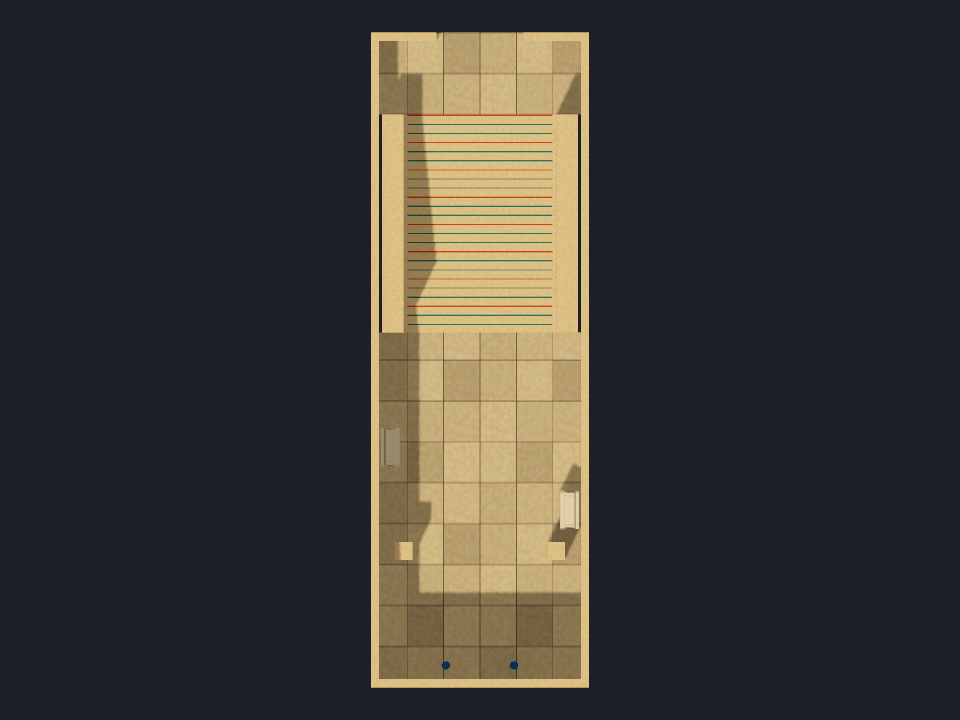
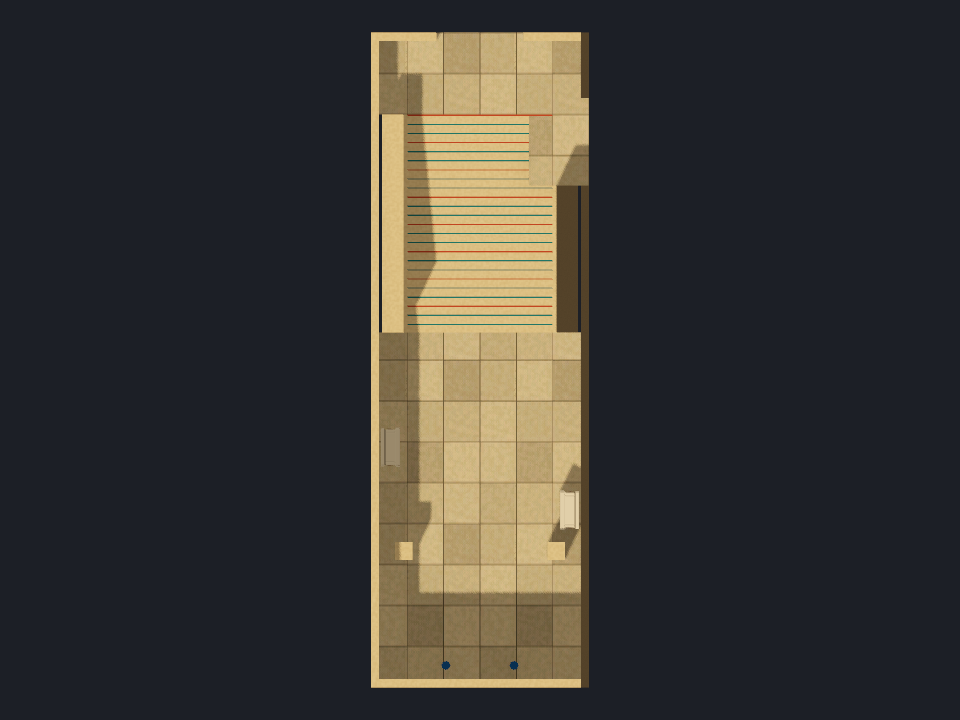
Show additional relic chamber entrances

Changed region(s): [[0.5312, 0.0306, 0.625, 0.9472]]

diff --git a/site/index.html b/site/index.html
@@ -34,7 +34,7 @@
     <tbody><tr id="BlackPitCausewayChamber" data-search="black pit causeway chamber blackpitcausewaychamber room standard" data-kind="Room" data-category="standard" data-name="Black Pit Causeway Chamber" data-area="768.0"><th scope="row"><a class="permalink" href="#BlackPitCausewayChamber">Black Pit Causeway Chamber</a><span class="tag">Room</span><span class="dimensions">24 × 32 m · 2 doorways</span><details><summary>Source</summary><code>levels/trenchbroom/maps/black_pit_causeway_chamber.map</code></details></th><td data-label="Top down"><a class="shot" href="images/BlackPitCausewayChamber/top.webp" data-title="Black Pit Causeway Chamber · Top down"><img src="images/BlackPitCausewayChamber/top.webp" width="960" height="720" loading="lazy" alt="Black Pit Causeway Chamber — Top down"></a></td><td data-label="Interior 1"><a class="shot" href="images/BlackPitCausewayChamber/interior-1.webp" data-title="Black Pit Causeway Chamber · Interior 1"><img src="images/BlackPitCausewayChamber/interior-1.webp" width="960" height="720" loading="lazy" alt="Black Pit Causeway Chamber — Interior 1"></a></td><td data-label="Interior 2"><a class="shot" href="images/BlackPitCausewayChamber/interior-2.webp" data-title="Black Pit Causeway Chamber · Interior 2"><img src="images/BlackPitCausewayChamber/interior-2.webp" width="960" height="720" loading="lazy" alt="Black Pit Causeway Chamber — Interior 2"></a></td></tr>
 <tr id="boulder_descent" data-search="boulder descent boulder_descent room standard" data-kind="Room" data-category="standard" data-name="Boulder Descent" data-area="384.0"><th scope="row"><a class="permalink" href="#boulder_descent">Boulder Descent</a><span class="tag">Room</span><span class="dimensions">16 × 24 m · 3 doorways</span><details><summary>Source</summary><code>levels/trenchbroom/maps/migrated/boulder_descent.map</code></details></th><td data-label="Top down"><a class="shot" href="images/boulder_descent/top.webp" data-title="Boulder Descent · Top down"><img src="images/boulder_descent/top.webp" width="960" height="720" loading="lazy" alt="Boulder Descent — Top down"></a></td><td data-label="Interior 1"><a class="shot" href="images/boulder_descent/interior-1.webp" data-title="Boulder Descent · Interior 1"><img src="images/boulder_descent/interior-1.webp" width="960" height="720" loading="lazy" alt="Boulder Descent — Interior 1"></a></td><td data-label="Interior 2"><a class="shot" href="images/boulder_descent/interior-2.webp" data-title="Boulder Descent · Interior 2"><img src="images/boulder_descent/interior-2.webp" width="960" height="720" loading="lazy" alt="Boulder Descent — Interior 2"></a></td></tr>
 <tr id="broken_bridge_chamber" data-search="broken bridge chamber broken_bridge_chamber room standard" data-kind="Room" data-category="standard" data-name="Broken Bridge Chamber" data-area="384.0"><th scope="row"><a class="permalink" href="#broken_bridge_chamber">Broken Bridge Chamber</a><span class="tag">Room</span><span class="dimensions">16 × 24 m · 2 doorways</span><details><summary>Source</summary><code>levels/trenchbroom/maps/migrated/broken_bridge_chamber.map</code></details></th><td data-label="Top down"><a class="shot" href="images/broken_bridge_chamber/top.webp" data-title="Broken Bridge Chamber · Top down"><img src="images/broken_bridge_chamber/top.webp" width="960" height="720" loading="lazy" alt="Broken Bridge Chamber — Top down"></a></td><td data-label="Interior 1"><a class="shot" href="images/broken_bridge_chamber/interior-1.webp" data-title="Broken Bridge Chamber · Interior 1"><img src="images/broken_bridge_chamber/interior-1.webp" width="960" height="720" loading="lazy" alt="Broken Bridge Chamber — Interior 1"></a></td><td data-label="Interior 2"><a class="shot" href="images/broken_bridge_chamber/interior-2.webp" data-title="Broken Bridge Chamber · Interior 2"><img src="images/broken_bridge_chamber/interior-2.webp" width="960" height="720" loading="lazy" alt="Broken Bridge Chamber — Interior 2"></a></td></tr>
-<tr id="burial_descent" data-search="burial descent burial_descent room relic chamber" data-kind="Room" data-category="relic" data-name="Burial Descent" data-area="192.0"><th scope="row"><a class="permalink" href="#burial_descent">Burial Descent</a><span class="tag">Room</span><span class="tag reward">Relic chamber</span><span class="dimensions">8 × 24 m · 1 doorways</span><details><summary>Source</summary><code>levels/trenchbroom/maps/migrated/burial_descent.map</code></details></th><td data-label="Top down"><a class="shot" href="images/burial_descent/top.webp" data-title="Burial Descent · Top down"><img src="images/burial_descent/top.webp" width="960" height="720" loading="lazy" alt="Burial Descent — Top down"></a></td><td data-label="Interior 1"><a class="shot" href="images/burial_descent/interior-1.webp" data-title="Burial Descent · Interior 1"><img src="images/burial_descent/interior-1.webp" width="960" height="720" loading="lazy" alt="Burial Descent — Interior 1"></a></td><td data-label="Interior 2"><a class="shot" href="images/burial_descent/interior-2.webp" data-title="Burial Descent · Interior 2"><img src="images/burial_descent/interior-2.webp" width="960" height="720" loading="lazy" alt="Burial Descent — Interior 2"></a></td></tr>
+<tr id="burial_descent" data-search="burial descent burial_descent room relic chamber" data-kind="Room" data-category="relic" data-name="Burial Descent" data-area="192.0"><th scope="row"><a class="permalink" href="#burial_descent">Burial Descent</a><span class="tag">Room</span><span class="tag reward">Relic chamber</span><span class="dimensions">8 × 24 m · 2 doorways</span><details><summary>Source</summary><code>levels/trenchbroom/maps/migrated/burial_descent.map</code></details></th><td data-label="Top down"><a class="shot" href="images/burial_descent/top.webp" data-title="Burial Descent · Top down"><img src="images/burial_descent/top.webp" width="960" height="720" loading="lazy" alt="Burial Descent — Top down"></a></td><td data-label="Interior 1"><a class="shot" href="images/burial_descent/interior-1.webp" data-title="Burial Descent · Interior 1"><img src="images/burial_descent/interior-1.webp" width="960" height="720" loading="lazy" alt="Burial Descent — Interior 1"></a></td><td data-label="Interior 2"><a class="shot" href="images/burial_descent/interior-2.webp" data-title="Burial Descent · Interior 2"><img src="images/burial_descent/interior-2.webp" width="960" height="720" loading="lazy" alt="Burial Descent — Interior 2"></a></td></tr>
 <tr id="canopic_passage" data-search="canopic passage canopic_passage room standard" data-kind="Room" data-category="standard" data-name="Canopic Passage" data-area="192.0"><th scope="row"><a class="permalink" href="#canopic_passage">Canopic Passage</a><span class="tag">Room</span><span class="dimensions">8 × 24 m · 2 doorways</span><details><summary>Source</summary><code>levels/trenchbroom/maps/migrated/canopic_passage.map</code></details></th><td data-label="Top down"><a class="shot" href="images/canopic_passage/top.webp" data-title="Canopic Passage · Top down"><img src="images/canopic_passage/top.webp" width="960" height="720" loading="lazy" alt="Canopic Passage — Top down"></a></td><td data-label="Interior 1"><a class="shot" href="images/canopic_passage/interior-1.webp" data-title="Canopic Passage · Interior 1"><img src="images/canopic_passage/interior-1.webp" width="960" height="720" loading="lazy" alt="Canopic Passage — Interior 1"></a></td><td data-label="Interior 2"><a class="shot" href="images/canopic_passage/interior-2.webp" data-title="Canopic Passage · Interior 2"><img src="images/canopic_passage/interior-2.webp" width="960" height="720" loading="lazy" alt="Canopic Passage — Interior 2"></a></td></tr>
 <tr id="collapse_passage" data-search="collapse passage collapse_passage room standard" data-kind="Room" data-category="standard" data-name="Collapse Passage" data-area="192.0"><th scope="row"><a class="permalink" href="#collapse_passage">Collapse Passage</a><span class="tag">Room</span><span class="dimensions">8 × 24 m · 2 doorways</span><details><summary>Source</summary><code>levels/trenchbroom/maps/migrated/collapse_passage.map</code></details></th><td data-label="Top down"><a class="shot" href="images/collapse_passage/top.webp" data-title="Collapse Passage · Top down"><img src="images/collapse_passage/top.webp" width="960" height="720" loading="lazy" alt="Collapse Passage — Top down"></a></td><td data-label="Interior 1"><a class="shot" href="images/collapse_passage/interior-1.webp" data-title="Collapse Passage · Interior 1"><img src="images/collapse_passage/interior-1.webp" width="960" height="720" loading="lazy" alt="Collapse Passage — Interior 1"></a></td><td data-label="Interior 2"><a class="shot" href="images/collapse_passage/interior-2.webp" data-title="Collapse Passage · Interior 2"><img src="images/collapse_passage/interior-2.webp" width="960" height="720" loading="lazy" alt="Collapse Passage — Interior 2"></a></td></tr>
 <tr id="collapsed_room" data-search="collapsed room collapsed_room room standard" data-kind="Room" data-category="standard" data-name="Collapsed Room" data-area="64.0"><th scope="row"><a class="permalink" href="#collapsed_room">Collapsed Room</a><span class="tag">Room</span><span class="dimensions">8 × 8 m · 1 doorways</span><details><summary>Source</summary><code>levels/trenchbroom/maps/migrated/collapsed_room.map</code></details></th><td data-label="Top down"><a class="shot" href="images/collapsed_room/top.webp" data-title="Collapsed Room · Top down"><img src="images/collapsed_room/top.webp" width="960" height="720" loading="lazy" alt="Collapsed Room — Top down"></a></td><td data-label="Interior 1"><a class="shot" href="images/collapsed_room/interior-1.webp" data-title="Collapsed Room · Interior 1"><img src="images/collapsed_room/interior-1.webp" width="960" height="720" loading="lazy" alt="Collapsed Room — Interior 1"></a></td><td data-label="Interior 2"><a class="shot" href="images/collapsed_room/interior-2.webp" data-title="Collapsed Room · Interior 2"><img src="images/collapsed_room/interior-2.webp" width="960" height="720" loading="lazy" alt="Collapsed Room — Interior 2"></a></td></tr>
@@ -45,10 +45,10 @@
 <tr id="fuel_shrine" data-search="fuel shrine fuel_shrine room standard" data-kind="Room" data-category="standard" data-name="Fuel Shrine" data-area="64.0"><th scope="row"><a class="permalink" href="#fuel_shrine">Fuel Shrine</a><span class="tag">Room</span><span class="dimensions">8 × 8 m · 2 doorways</span><details><summary>Source</summary><code>levels/trenchbroom/maps/migrated/fuel_shrine.map</code></details></th><td data-label="Top down"><a class="shot" href="images/fuel_shrine/top.webp" data-title="Fuel Shrine · Top down"><img src="images/fuel_shrine/top.webp" width="960" height="720" loading="lazy" alt="Fuel Shrine — Top down"></a></td><td data-label="Interior 1"><a class="shot" href="images/fuel_shrine/interior-1.webp" data-title="Fuel Shrine · Interior 1"><img src="images/fuel_shrine/interior-1.webp" width="960" height="720" loading="lazy" alt="Fuel Shrine — Interior 1"></a></td><td data-label="Interior 2"><a class="shot" href="images/fuel_shrine/interior-2.webp" data-title="Fuel Shrine · Interior 2"><img src="images/fuel_shrine/interior-2.webp" width="960" height="720" loading="lazy" alt="Fuel Shrine — Interior 2"></a></td></tr>
 <tr id="grand_hypostyle_hall" data-search="grand hypostyle hall grand_hypostyle_hall room standard" data-kind="Room" data-category="standard" data-name="Grand Hypostyle Hall" data-area="768.0"><th scope="row"><a class="permalink" href="#grand_hypostyle_hall">Grand Hypostyle Hall</a><span class="tag">Room</span><span class="dimensions">32 × 24 m · 3 doorways</span><details><summary>Source</summary><code>levels/trenchbroom/maps/migrated/grand_hypostyle_hall.map</code></details></th><td data-label="Top down"><a class="shot" href="images/grand_hypostyle_hall/top.webp" data-title="Grand Hypostyle Hall · Top down"><img src="images/grand_hypostyle_hall/top.webp" width="960" height="720" loading="lazy" alt="Grand Hypostyle Hall — Top down"></a></td><td data-label="Interior 1"><a class="shot" href="images/grand_hypostyle_hall/interior-1.webp" data-title="Grand Hypostyle Hall · Interior 1"><img src="images/grand_hypostyle_hall/interior-1.webp" width="960" height="720" loading="lazy" alt="Grand Hypostyle Hall — Interior 1"></a></td><td data-label="Interior 2"><a class="shot" href="images/grand_hypostyle_hall/interior-2.webp" data-title="Grand Hypostyle Hall · Interior 2"><img src="images/grand_hypostyle_hall/interior-2.webp" width="960" height="720" loading="lazy" alt="Grand Hypostyle Hall — Interior 2"></a></td></tr>
 <tr id="hall_of_pendulums" data-search="hall of pendulums hall_of_pendulums room standard" data-kind="Room" data-category="standard" data-name="Hall Of Pendulums" data-area="256.0"><th scope="row"><a class="permalink" href="#hall_of_pendulums">Hall Of Pendulums</a><span class="tag">Room</span><span class="dimensions">8 × 32 m · 2 doorways</span><details><summary>Source</summary><code>levels/trenchbroom/maps/migrated/hall_of_pendulums.map</code></details></th><td data-label="Top down"><a class="shot" href="images/hall_of_pendulums/top.webp" data-title="Hall Of Pendulums · Top down"><img src="images/hall_of_pendulums/top.webp" width="960" height="720" loading="lazy" alt="Hall Of Pendulums — Top down"></a></td><td data-label="Interior 1"><a class="shot" href="images/hall_of_pendulums/interior-1.webp" data-title="Hall Of Pendulums · Interior 1"><img src="images/hall_of_pendulums/interior-1.webp" width="960" height="720" loading="lazy" alt="Hall Of Pendulums — Interior 1"></a></td><td data-label="Interior 2"><a class="shot" href="images/hall_of_pendulums/interior-2.webp" data-title="Hall Of Pendulums · Interior 2"><img src="images/hall_of_pendulums/interior-2.webp" width="960" height="720" loading="lazy" alt="Hall Of Pendulums — Interior 2"></a></td></tr>
-<tr id="hundred_pillars" data-search="hundred pillars hundred_pillars room relic chamber" data-kind="Room" data-category="relic" data-name="Hundred Pillars" data-area="2688.0"><th scope="row"><a class="permalink" href="#hundred_pillars">Hundred Pillars</a><span class="tag">Room</span><span class="tag reward">Relic chamber</span><span class="dimensions">56 × 48 m · 1 doorways</span><details><summary>Source</summary><code>levels/trenchbroom/maps/migrated/hundred_pillars.map</code></details></th><td data-label="Top down"><a class="shot" href="images/hundred_pillars/top.webp" data-title="Hundred Pillars · Top down"><img src="images/hundred_pillars/top.webp" width="960" height="720" loading="lazy" alt="Hundred Pillars — Top down"></a></td><td data-label="Interior 1"><a class="shot" href="images/hundred_pillars/interior-1.webp" data-title="Hundred Pillars · Interior 1"><img src="images/hundred_pillars/interior-1.webp" width="960" height="720" loading="lazy" alt="Hundred Pillars — Interior 1"></a></td><td data-label="Interior 2"><a class="shot" href="images/hundred_pillars/interior-2.webp" data-title="Hundred Pillars · Interior 2"><img src="images/hundred_pillars/interior-2.webp" width="960" height="720" loading="lazy" alt="Hundred Pillars — Interior 2"></a></td></tr>
+<tr id="hundred_pillars" data-search="hundred pillars hundred_pillars room relic chamber" data-kind="Room" data-category="relic" data-name="Hundred Pillars" data-area="2688.0"><th scope="row"><a class="permalink" href="#hundred_pillars">Hundred Pillars</a><span class="tag">Room</span><span class="tag reward">Relic chamber</span><span class="dimensions">56 × 48 m · 3 doorways</span><details><summary>Source</summary><code>levels/trenchbroom/maps/migrated/hundred_pillars.map</code></details></th><td data-label="Top down"><a class="shot" href="images/hundred_pillars/top.webp" data-title="Hundred Pillars · Top down"><img src="images/hundred_pillars/top.webp" width="960" height="720" loading="lazy" alt="Hundred Pillars — Top down"></a></td><td data-label="Interior 1"><a class="shot" href="images/hundred_pillars/interior-1.webp" data-title="Hundred Pillars · Interior 1"><img src="images/hundred_pillars/interior-1.webp" width="960" height="720" loading="lazy" alt="Hundred Pillars — Interior 1"></a></td><td data-label="Interior 2"><a class="shot" href="images/hundred_pillars/interior-2.webp" data-title="Hundred Pillars · Interior 2"><img src="images/hundred_pillars/interior-2.webp" width="960" height="720" loading="lazy" alt="Hundred Pillars — Interior 2"></a></td></tr>
 <tr id="hypostyle_hall" data-search="hypostyle hall hypostyle_hall room standard" data-kind="Room" data-category="standard" data-name="Hypostyle Hall" data-area="576.0"><th scope="row"><a class="permalink" href="#hypostyle_hall">Hypostyle Hall</a><span class="tag">Room</span><span class="dimensions">24 × 24 m · 3 doorways</span><details><summary>Source</summary><code>levels/trenchbroom/maps/migrated/hypostyle_hall.map</code></details></th><td data-label="Top down"><a class="shot" href="images/hypostyle_hall/top.webp" data-title="Hypostyle Hall · Top down"><img src="images/hypostyle_hall/top.webp" width="960" height="720" loading="lazy" alt="Hypostyle Hall — Top down"></a></td><td data-label="Interior 1"><a class="shot" href="images/hypostyle_hall/interior-1.webp" data-title="Hypostyle Hall · Interior 1"><img src="images/hypostyle_hall/interior-1.webp" width="960" height="720" loading="lazy" alt="Hypostyle Hall — Interior 1"></a></td><td data-label="Interior 2"><a class="shot" href="images/hypostyle_hall/interior-2.webp" data-title="Hypostyle Hall · Interior 2"><img src="images/hypostyle_hall/interior-2.webp" width="960" height="720" loading="lazy" alt="Hypostyle Hall — Interior 2"></a></td></tr>
 <tr id="intro_room_spikes" data-search="intro room spikes intro_room_spikes entrance standard" data-kind="Entrance" data-category="standard" data-name="Intro Room Spikes" data-area="400.89"><th scope="row"><a class="permalink" href="#intro_room_spikes">Intro Room Spikes</a><span class="tag">Entrance</span><span class="dimensions">8.3 × 48.3 m · 0 doorways</span><details><summary>Source</summary><code>levels/trenchbroom/maps/migrated/intro_room_spikes.map</code></details></th><td data-label="Top down"><a class="shot" href="images/intro_room_spikes/top.webp" data-title="Intro Room Spikes · Top down"><img src="images/intro_room_spikes/top.webp" width="960" height="720" loading="lazy" alt="Intro Room Spikes — Top down"></a></td><td data-label="Interior 1"><a class="shot" href="images/intro_room_spikes/interior-1.webp" data-title="Intro Room Spikes · Interior 1"><img src="images/intro_room_spikes/interior-1.webp" width="960" height="720" loading="lazy" alt="Intro Room Spikes — Interior 1"></a></td><td data-label="Interior 2"><a class="shot" href="images/intro_room_spikes/interior-2.webp" data-title="Intro Room Spikes · Interior 2"><img src="images/intro_room_spikes/interior-2.webp" width="960" height="720" loading="lazy" alt="Intro Room Spikes — Interior 2"></a></td></tr>
-<tr id="jackals_jaw" data-search="jackals jaw jackals_jaw room relic chamber" data-kind="Room" data-category="relic" data-name="Jackals Jaw" data-area="1604.0"><th scope="row"><a class="permalink" href="#jackals_jaw">Jackals Jaw</a><span class="tag">Room</span><span class="tag reward">Relic chamber</span><span class="dimensions">40.1 × 40 m · 1 doorways</span><details><summary>Source</summary><code>levels/trenchbroom/maps/migrated/jackals_jaw.map</code></details></th><td data-label="Top down"><a class="shot" href="images/jackals_jaw/top.webp" data-title="Jackals Jaw · Top down"><img src="images/jackals_jaw/top.webp" width="960" height="720" loading="lazy" alt="Jackals Jaw — Top down"></a></td><td data-label="Interior 1"><a class="shot" href="images/jackals_jaw/interior-1.webp" data-title="Jackals Jaw · Interior 1"><img src="images/jackals_jaw/interior-1.webp" width="960" height="720" loading="lazy" alt="Jackals Jaw — Interior 1"></a></td><td data-label="Interior 2"><a class="shot" href="images/jackals_jaw/interior-2.webp" data-title="Jackals Jaw · Interior 2"><img src="images/jackals_jaw/interior-2.webp" width="960" height="720" loading="lazy" alt="Jackals Jaw — Interior 2"></a></td></tr>
+<tr id="jackals_jaw" data-search="jackals jaw jackals_jaw room relic chamber" data-kind="Room" data-category="relic" data-name="Jackals Jaw" data-area="1604.0"><th scope="row"><a class="permalink" href="#jackals_jaw">Jackals Jaw</a><span class="tag">Room</span><span class="tag reward">Relic chamber</span><span class="dimensions">40.1 × 40 m · 3 doorways</span><details><summary>Source</summary><code>levels/trenchbroom/maps/migrated/jackals_jaw.map</code></details></th><td data-label="Top down"><a class="shot" href="images/jackals_jaw/top.webp" data-title="Jackals Jaw · Top down"><img src="images/jackals_jaw/top.webp" width="960" height="720" loading="lazy" alt="Jackals Jaw — Top down"></a></td><td data-label="Interior 1"><a class="shot" href="images/jackals_jaw/interior-1.webp" data-title="Jackals Jaw · Interior 1"><img src="images/jackals_jaw/interior-1.webp" width="960" height="720" loading="lazy" alt="Jackals Jaw — Interior 1"></a></td><td data-label="Interior 2"><a class="shot" href="images/jackals_jaw/interior-2.webp" data-title="Jackals Jaw · Interior 2"><img src="images/jackals_jaw/interior-2.webp" width="960" height="720" loading="lazy" alt="Jackals Jaw — Interior 2"></a></td></tr>
 <tr id="junction_room" data-search="junction room junction_room room standard" data-kind="Room" data-category="standard" data-name="Junction Room" data-area="64.0"><th scope="row"><a class="permalink" href="#junction_room">Junction Room</a><span class="tag">Room</span><span class="dimensions">8 × 8 m · 4 doorways</span><details><summary>Source</summary><code>levels/trenchbroom/maps/migrated/junction_room.map</code></details></th><td data-label="Top down"><a class="shot" href="images/junction_room/top.webp" data-title="Junction Room · Top down"><img src="images/junction_room/top.webp" width="960" height="720" loading="lazy" alt="Junction Room — Top down"></a></td><td data-label="Interior 1"><a class="shot" href="images/junction_room/interior-1.webp" data-title="Junction Room · Interior 1"><img src="images/junction_room/interior-1.webp" width="960" height="720" loading="lazy" alt="Junction Room — Interior 1"></a></td><td data-label="Interior 2"><a class="shot" href="images/junction_room/interior-2.webp" data-title="Junction Room · Interior 2"><img src="images/junction_room/interior-2.webp" width="960" height="720" loading="lazy" alt="Junction Room — Interior 2"></a></td></tr>
 <tr id="l_shaped_passage" data-search="l shaped passage l_shaped_passage room standard" data-kind="Room" data-category="standard" data-name="L Shaped Passage" data-area="256.0"><th scope="row"><a class="permalink" href="#l_shaped_passage">L Shaped Passage</a><span class="tag">Room</span><span class="dimensions">16 × 16 m · 2 doorways</span><details><summary>Source</summary><code>levels/trenchbroom/maps/migrated/l_shaped_passage.map</code></details></th><td data-label="Top down"><a class="shot" href="images/l_shaped_passage/top.webp" data-title="L Shaped Passage · Top down"><img src="images/l_shaped_passage/top.webp" width="960" height="720" loading="lazy" alt="L Shaped Passage — Top down"></a></td><td data-label="Interior 1"><a class="shot" href="images/l_shaped_passage/interior-1.webp" data-title="L Shaped Passage · Interior 1"><img src="images/l_shaped_passage/interior-1.webp" width="960" height="720" loading="lazy" alt="L Shaped Passage — Interior 1"></a></td><td data-label="Interior 2"><a class="shot" href="images/l_shaped_passage/interior-2.webp" data-title="L Shaped Passage · Interior 2"><img src="images/l_shaped_passage/interior-2.webp" width="960" height="720" loading="lazy" alt="L Shaped Passage — Interior 2"></a></td></tr>
 <tr id="long_gallery" data-search="long gallery long_gallery room standard" data-kind="Room" data-category="standard" data-name="Long Gallery" data-area="192.0"><th scope="row"><a class="permalink" href="#long_gallery">Long Gallery</a><span class="tag">Room</span><span class="dimensions">8 × 24 m · 2 doorways</span><details><summary>Source</summary><code>levels/trenchbroom/maps/migrated/long_gallery.map</code></details></th><td data-label="Top down"><a class="shot" href="images/long_gallery/top.webp" data-title="Long Gallery · Top down"><img src="images/long_gallery/top.webp" width="960" height="720" loading="lazy" alt="Long Gallery — Top down"></a></td><td data-label="Interior 1"><a class="shot" href="images/long_gallery/interior-1.webp" data-title="Long Gallery · Interior 1"><img src="images/long_gallery/interior-1.webp" width="960" height="720" loading="lazy" alt="Long Gallery — Interior 1"></a></td><td data-label="Interior 2"><a class="shot" href="images/long_gallery/interior-2.webp" data-title="Long Gallery · Interior 2"><img src="images/long_gallery/interior-2.webp" width="960" height="720" loading="lazy" alt="Long Gallery — Interior 2"></a></td></tr>
@@ -62,13 +62,13 @@
 <tr id="processional_hall" data-search="processional hall processional_hall room standard" data-kind="Room" data-category="standard" data-name="Processional Hall" data-area="192.0"><th scope="row"><a class="permalink" href="#processional_hall">Processional Hall</a><span class="tag">Room</span><span class="dimensions">8 × 24 m · 2 doorways</span><details><summary>Source</summary><code>levels/trenchbroom/maps/migrated/processional_hall.map</code></details></th><td data-label="Top down"><a class="shot" href="images/processional_hall/top.webp" data-title="Processional Hall · Top down"><img src="images/processional_hall/top.webp" width="960" height="720" loading="lazy" alt="Processional Hall — Top down"></a></td><td data-label="Interior 1"><a class="shot" href="images/processional_hall/interior-1.webp" data-title="Processional Hall · Interior 1"><img src="images/processional_hall/interior-1.webp" width="960" height="720" loading="lazy" alt="Processional Hall — Interior 1"></a></td><td data-label="Interior 2"><a class="shot" href="images/processional_hall/interior-2.webp" data-title="Processional Hall · Interior 2"><img src="images/processional_hall/interior-2.webp" width="960" height="720" loading="lazy" alt="Processional Hall — Interior 2"></a></td></tr>
 <tr id="rhythm_corridor" data-search="rhythm corridor rhythm_corridor corridor standard" data-kind="Corridor" data-category="standard" data-name="Rhythm Corridor" data-area="64.0"><th scope="row"><a class="permalink" href="#rhythm_corridor">Rhythm Corridor</a><span class="tag">Corridor</span><span class="dimensions">8 × 8 m · 4 doorways</span><details><summary>Source</summary><code>levels/trenchbroom/maps/migrated/rhythm_corridor.map</code></details></th><td data-label="Top down"><a class="shot" href="images/rhythm_corridor/top.webp" data-title="Rhythm Corridor · Top down"><img src="images/rhythm_corridor/top.webp" width="960" height="720" loading="lazy" alt="Rhythm Corridor — Top down"></a></td><td data-label="Interior 1"><a class="shot" href="images/rhythm_corridor/interior-1.webp" data-title="Rhythm Corridor · Interior 1"><img src="images/rhythm_corridor/interior-1.webp" width="960" height="720" loading="lazy" alt="Rhythm Corridor — Interior 1"></a></td><td data-label="Interior 2"><a class="shot" href="images/rhythm_corridor/interior-2.webp" data-title="Rhythm Corridor · Interior 2"><img src="images/rhythm_corridor/interior-2.webp" width="960" height="720" loading="lazy" alt="Rhythm Corridor — Interior 2"></a></td></tr>
 <tr id="RiskRewardShrineChamber" data-search="risk reward shrine chamber riskrewardshrinechamber room standard" data-kind="Room" data-category="standard" data-name="Risk Reward Shrine Chamber" data-area="576.0"><th scope="row"><a class="permalink" href="#RiskRewardShrineChamber">Risk Reward Shrine Chamber</a><span class="tag">Room</span><span class="dimensions">24 × 24 m · 2 doorways</span><details><summary>Source</summary><code>levels/trenchbroom/maps/risk_reward_shrine_chamber.map</code></details></th><td data-label="Top down"><a class="shot" href="images/RiskRewardShrineChamber/top.webp" data-title="Risk Reward Shrine Chamber · Top down"><img src="images/RiskRewardShrineChamber/top.webp" width="960" height="720" loading="lazy" alt="Risk Reward Shrine Chamber — Top down"></a></td><td data-label="Interior 1"><a class="shot" href="images/RiskRewardShrineChamber/interior-1.webp" data-title="Risk Reward Shrine Chamber · Interior 1"><img src="images/RiskRewardShrineChamber/interior-1.webp" width="960" height="720" loading="lazy" alt="Risk Reward Shrine Chamber — Interior 1"></a></td><td data-label="Interior 2"><a class="shot" href="images/RiskRewardShrineChamber/interior-2.webp" data-title="Risk Reward Shrine Chamber · Interior 2"><img src="images/RiskRewardShrineChamber/interior-2.webp" width="960" height="720" loading="lazy" alt="Risk Reward Shrine Chamber — Interior 2"></a></td></tr>
-<tr id="skyless_ziggurat" data-search="skyless ziggurat skyless_ziggurat room relic chamber" data-kind="Room" data-category="relic" data-name="Skyless Ziggurat" data-area="2304.0"><th scope="row"><a class="permalink" href="#skyless_ziggurat">Skyless Ziggurat</a><span class="tag">Room</span><span class="tag reward">Relic chamber</span><span class="dimensions">48 × 48 m · 1 doorways</span><details><summary>Source</summary><code>levels/trenchbroom/maps/migrated/skyless_ziggurat.map</code></details></th><td data-label="Top down"><a class="shot" href="images/skyless_ziggurat/top.webp" data-title="Skyless Ziggurat · Top down"><img src="images/skyless_ziggurat/top.webp" width="960" height="720" loading="lazy" alt="Skyless Ziggurat — Top down"></a></td><td data-label="Interior 1"><a class="shot" href="images/skyless_ziggurat/interior-1.webp" data-title="Skyless Ziggurat · Interior 1"><img src="images/skyless_ziggurat/interior-1.webp" width="960" height="720" loading="lazy" alt="Skyless Ziggurat — Interior 1"></a></td><td data-label="Interior 2"><a class="shot" href="images/skyless_ziggurat/interior-2.webp" data-title="Skyless Ziggurat · Interior 2"><img src="images/skyless_ziggurat/interior-2.webp" width="960" height="720" loading="lazy" alt="Skyless Ziggurat — Interior 2"></a></td></tr>
+<tr id="skyless_ziggurat" data-search="skyless ziggurat skyless_ziggurat room relic chamber" data-kind="Room" data-category="relic" data-name="Skyless Ziggurat" data-area="2304.0"><th scope="row"><a class="permalink" href="#skyless_ziggurat">Skyless Ziggurat</a><span class="tag">Room</span><span class="tag reward">Relic chamber</span><span class="dimensions">48 × 48 m · 3 doorways</span><details><summary>Source</summary><code>levels/trenchbroom/maps/migrated/skyless_ziggurat.map</code></details></th><td data-label="Top down"><a class="shot" href="images/skyless_ziggurat/top.webp" data-title="Skyless Ziggurat · Top down"><img src="images/skyless_ziggurat/top.webp" width="960" height="720" loading="lazy" alt="Skyless Ziggurat — Top down"></a></td><td data-label="Interior 1"><a class="shot" href="images/skyless_ziggurat/interior-1.webp" data-title="Skyless Ziggurat · Interior 1"><img src="images/skyless_ziggurat/interior-1.webp" width="960" height="720" loading="lazy" alt="Skyless Ziggurat — Interior 1"></a></td><td data-label="Interior 2"><a class="shot" href="images/skyless_ziggurat/interior-2.webp" data-title="Skyless Ziggurat · Interior 2"><img src="images/skyless_ziggurat/interior-2.webp" width="960" height="720" loading="lazy" alt="Skyless Ziggurat — Interior 2"></a></td></tr>
 <tr id="spawn_room" data-search="spawn room spawn_room entrance standard" data-kind="Entrance" data-category="standard" data-name="Spawn Room" data-area="64.0"><th scope="row"><a class="permalink" href="#spawn_room">Spawn Room</a><span class="tag">Entrance</span><span class="dimensions">8 × 8 m · 4 doorways</span><details><summary>Source</summary><code>levels/trenchbroom/maps/migrated/spawn_room.map</code></details></th><td data-label="Top down"><a class="shot" href="images/spawn_room/top.webp" data-title="Spawn Room · Top down"><img src="images/spawn_room/top.webp" width="960" height="720" loading="lazy" alt="Spawn Room — Top down"></a></td><td data-label="Interior 1"><a class="shot" href="images/spawn_room/interior-1.webp" data-title="Spawn Room · Interior 1"><img src="images/spawn_room/interior-1.webp" width="960" height="720" loading="lazy" alt="Spawn Room — Interior 1"></a></td><td data-label="Interior 2"><a class="shot" href="images/spawn_room/interior-2.webp" data-title="Spawn Room · Interior 2"><img src="images/spawn_room/interior-2.webp" width="960" height="720" loading="lazy" alt="Spawn Room — Interior 2"></a></td></tr>
 <tr id="SpikeWheelChamber" data-search="spike wheel chamber spikewheelchamber room standard" data-kind="Room" data-category="standard" data-name="Spike Wheel Chamber" data-area="566.4000000000001"><th scope="row"><a class="permalink" href="#SpikeWheelChamber">Spike Wheel Chamber</a><span class="tag">Room</span><span class="dimensions">24 × 23.6 m · 3 doorways</span><details><summary>Source</summary><code>levels/trenchbroom/maps/spike_wheel_chamber.map</code></details></th><td data-label="Top down"><a class="shot" href="images/SpikeWheelChamber/top.webp" data-title="Spike Wheel Chamber · Top down"><img src="images/SpikeWheelChamber/top.webp" width="960" height="720" loading="lazy" alt="Spike Wheel Chamber — Top down"></a></td><td data-label="Interior 1"><a class="shot" href="images/SpikeWheelChamber/interior-1.webp" data-title="Spike Wheel Chamber · Interior 1"><img src="images/SpikeWheelChamber/interior-1.webp" width="960" height="720" loading="lazy" alt="Spike Wheel Chamber — Interior 1"></a></td><td data-label="Interior 2"><a class="shot" href="images/SpikeWheelChamber/interior-2.webp" data-title="Spike Wheel Chamber · Interior 2"><img src="images/SpikeWheelChamber/interior-2.webp" width="960" height="720" loading="lazy" alt="Spike Wheel Chamber — Interior 2"></a></td></tr>
 <tr id="SplitLevelKillbox" data-search="split level killbox splitlevelkillbox room standard" data-kind="Room" data-category="standard" data-name="Split Level Killbox" data-area="576.0"><th scope="row"><a class="permalink" href="#SplitLevelKillbox">Split Level Killbox</a><span class="tag">Room</span><span class="dimensions">24 × 24 m · 2 doorways</span><details><summary>Source</summary><code>levels/trenchbroom/maps/split_level_killbox.map</code></details></th><td data-label="Top down"><a class="shot" href="images/SplitLevelKillbox/top.webp" data-title="Split Level Killbox · Top down"><img src="images/SplitLevelKillbox/top.webp" width="960" height="720" loading="lazy" alt="Split Level Killbox — Top down"></a></td><td data-label="Interior 1"><a class="shot" href="images/SplitLevelKillbox/interior-1.webp" data-title="Split Level Killbox · Interior 1"><img src="images/SplitLevelKillbox/interior-1.webp" width="960" height="720" loading="lazy" alt="Split Level Killbox — Interior 1"></a></td><td data-label="Interior 2"><a class="shot" href="images/SplitLevelKillbox/interior-2.webp" data-title="Split Level Killbox · Interior 2"><img src="images/SplitLevelKillbox/interior-2.webp" width="960" height="720" loading="lazy" alt="Split Level Killbox — Interior 2"></a></td></tr>
 <tr id="split_room" data-search="split room split_room room standard" data-kind="Room" data-category="standard" data-name="Split Room" data-area="128.0"><th scope="row"><a class="permalink" href="#split_room">Split Room</a><span class="tag">Room</span><span class="dimensions">16 × 8 m · 3 doorways</span><details><summary>Source</summary><code>levels/trenchbroom/maps/migrated/split_room.map</code></details></th><td data-label="Top down"><a class="shot" href="images/split_room/top.webp" data-title="Split Room · Top down"><img src="images/split_room/top.webp" width="960" height="720" loading="lazy" alt="Split Room — Top down"></a></td><td data-label="Interior 1"><a class="shot" href="images/split_room/interior-1.webp" data-title="Split Room · Interior 1"><img src="images/split_room/interior-1.webp" width="960" height="720" loading="lazy" alt="Split Room — Interior 1"></a></td><td data-label="Interior 2"><a class="shot" href="images/split_room/interior-2.webp" data-title="Split Room · Interior 2"><img src="images/split_room/interior-2.webp" width="960" height="720" loading="lazy" alt="Split Room — Interior 2"></a></td></tr>
 <tr id="sunken_shrine" data-search="sunken shrine sunken_shrine room standard" data-kind="Room" data-category="standard" data-name="Sunken Shrine" data-area="576.0"><th scope="row"><a class="permalink" href="#sunken_shrine">Sunken Shrine</a><span class="tag">Room</span><span class="dimensions">24 × 24 m · 4 doorways</span><details><summary>Source</summary><code>levels/trenchbroom/maps/migrated/sunken_shrine.map</code></details></th><td data-label="Top down"><a class="shot" href="images/sunken_shrine/top.webp" data-title="Sunken Shrine · Top down"><img src="images/sunken_shrine/top.webp" width="960" height="720" loading="lazy" alt="Sunken Shrine — Top down"></a></td><td data-label="Interior 1"><a class="shot" href="images/sunken_shrine/interior-1.webp" data-title="Sunken Shrine · Interior 1"><img src="images/sunken_shrine/interior-1.webp" width="960" height="720" loading="lazy" alt="Sunken Shrine — Interior 1"></a></td><td data-label="Interior 2"><a class="shot" href="images/sunken_shrine/interior-2.webp" data-title="Sunken Shrine · Interior 2"><img src="images/sunken_shrine/interior-2.webp" width="960" height="720" loading="lazy" alt="Sunken Shrine — Interior 2"></a></td></tr>
-<tr id="sunken_sun" data-search="sunken sun sunken_sun room relic chamber" data-kind="Room" data-category="relic" data-name="Sunken Sun" data-area="1920.0"><th scope="row"><a class="permalink" href="#sunken_sun">Sunken Sun</a><span class="tag">Room</span><span class="tag reward">Relic chamber</span><span class="dimensions">48 × 40 m · 1 doorways</span><details><summary>Source</summary><code>levels/trenchbroom/maps/migrated/sunken_sun.map</code></details></th><td data-label="Top down"><a class="shot" href="images/sunken_sun/top.webp" data-title="Sunken Sun · Top down"><img src="images/sunken_sun/top.webp" width="960" height="720" loading="lazy" alt="Sunken Sun — Top down"></a></td><td data-label="Interior 1"><a class="shot" href="images/sunken_sun/interior-1.webp" data-title="Sunken Sun · Interior 1"><img src="images/sunken_sun/interior-1.webp" width="960" height="720" loading="lazy" alt="Sunken Sun — Interior 1"></a></td><td data-label="Interior 2"><a class="shot" href="images/sunken_sun/interior-2.webp" data-title="Sunken Sun · Interior 2"><img src="images/sunken_sun/interior-2.webp" width="960" height="720" loading="lazy" alt="Sunken Sun — Interior 2"></a></td></tr>
+<tr id="sunken_sun" data-search="sunken sun sunken_sun room relic chamber" data-kind="Room" data-category="relic" data-name="Sunken Sun" data-area="1920.0"><th scope="row"><a class="permalink" href="#sunken_sun">Sunken Sun</a><span class="tag">Room</span><span class="tag reward">Relic chamber</span><span class="dimensions">48 × 40 m · 3 doorways</span><details><summary>Source</summary><code>levels/trenchbroom/maps/migrated/sunken_sun.map</code></details></th><td data-label="Top down"><a class="shot" href="images/sunken_sun/top.webp" data-title="Sunken Sun · Top down"><img src="images/sunken_sun/top.webp" width="960" height="720" loading="lazy" alt="Sunken Sun — Top down"></a></td><td data-label="Interior 1"><a class="shot" href="images/sunken_sun/interior-1.webp" data-title="Sunken Sun · Interior 1"><img src="images/sunken_sun/interior-1.webp" width="960" height="720" loading="lazy" alt="Sunken Sun — Interior 1"></a></td><td data-label="Interior 2"><a class="shot" href="images/sunken_sun/interior-2.webp" data-title="Sunken Sun · Interior 2"><img src="images/sunken_sun/interior-2.webp" width="960" height="720" loading="lazy" alt="Sunken Sun — Interior 2"></a></td></tr>
 <tr id="trap_gallery" data-search="trap gallery trap_gallery room standard" data-kind="Room" data-category="standard" data-name="Trap Gallery" data-area="128.0"><th scope="row"><a class="permalink" href="#trap_gallery">Trap Gallery</a><span class="tag">Room</span><span class="dimensions">8 × 16 m · 2 doorways</span><details><summary>Source</summary><code>levels/trenchbroom/maps/migrated/trap_gallery.map</code></details></th><td data-label="Top down"><a class="shot" href="images/trap_gallery/top.webp" data-title="Trap Gallery · Top down"><img src="images/trap_gallery/top.webp" width="960" height="720" loading="lazy" alt="Trap Gallery — Top down"></a></td><td data-label="Interior 1"><a class="shot" href="images/trap_gallery/interior-1.webp" data-title="Trap Gallery · Interior 1"><img src="images/trap_gallery/interior-1.webp" width="960" height="720" loading="lazy" alt="Trap Gallery — Interior 1"></a></td><td data-label="Interior 2"><a class="shot" href="images/trap_gallery/interior-2.webp" data-title="Trap Gallery · Interior 2"><img src="images/trap_gallery/interior-2.webp" width="960" height="720" loading="lazy" alt="Trap Gallery — Interior 2"></a></td></tr>
 <tr id="treasure_room" data-search="treasure room treasure_room room major treasure" data-kind="Room" data-category="treasure" data-name="Treasure Room" data-area="64.0"><th scope="row"><a class="permalink" href="#treasure_room">Treasure Room</a><span class="tag">Room</span><span class="tag reward">Major treasure</span><span class="dimensions">8 × 8 m · 1 doorways</span><details><summary>Source</summary><code>levels/trenchbroom/maps/migrated/treasure_room.map</code></details></th><td data-label="Top down"><a class="shot" href="images/treasure_room/top.webp" data-title="Treasure Room · Top down"><img src="images/treasure_room/top.webp" width="960" height="720" loading="lazy" alt="Treasure Room — Top down"></a></td><td data-label="Interior 1"><a class="shot" href="images/treasure_room/interior-1.webp" data-title="Treasure Room · Interior 1"><img src="images/treasure_room/interior-1.webp" width="960" height="720" loading="lazy" alt="Treasure Room — Interior 1"></a></td><td data-label="Interior 2"><a class="shot" href="images/treasure_room/interior-2.webp" data-title="Treasure Room · Interior 2"><img src="images/treasure_room/interior-2.webp" width="960" height="720" loading="lazy" alt="Treasure Room — Interior 2"></a></td></tr>
 <tr id="treasury_of_weights" data-search="treasury of weights treasury_of_weights room major treasure" data-kind="Room" data-category="treasure" data-name="Treasury Of Weights" data-area="384.0"><th scope="row"><a class="permalink" href="#treasury_of_weights">Treasury Of Weights</a><span class="tag">Room</span><span class="tag reward">Major treasure</span><span class="dimensions">16 × 24 m · 2 doorways</span><details><summary>Source</summary><code>levels/trenchbroom/maps/migrated/treasury_of_weights.map</code></details></th><td data-label="Top down"><a class="shot" href="images/treasury_of_weights/top.webp" data-title="Treasury Of Weights · Top down"><img src="images/treasury_of_weights/top.webp" width="960" height="720" loading="lazy" alt="Treasury Of Weights — Top down"></a></td><td data-label="Interior 1"><a class="shot" href="images/treasury_of_weights/interior-1.webp" data-title="Treasury Of Weights · Interior 1"><img src="images/treasury_of_weights/interior-1.webp" width="960" height="720" loading="lazy" alt="Treasury Of Weights — Interior 1"></a></td><td data-label="Interior 2"><a class="shot" href="images/treasury_of_weights/interior-2.webp" data-title="Treasury Of Weights · Interior 2"><img src="images/treasury_of_weights/interior-2.webp" width="960" height="720" loading="lazy" alt="Treasury Of Weights — Interior 2"></a></td></tr>
